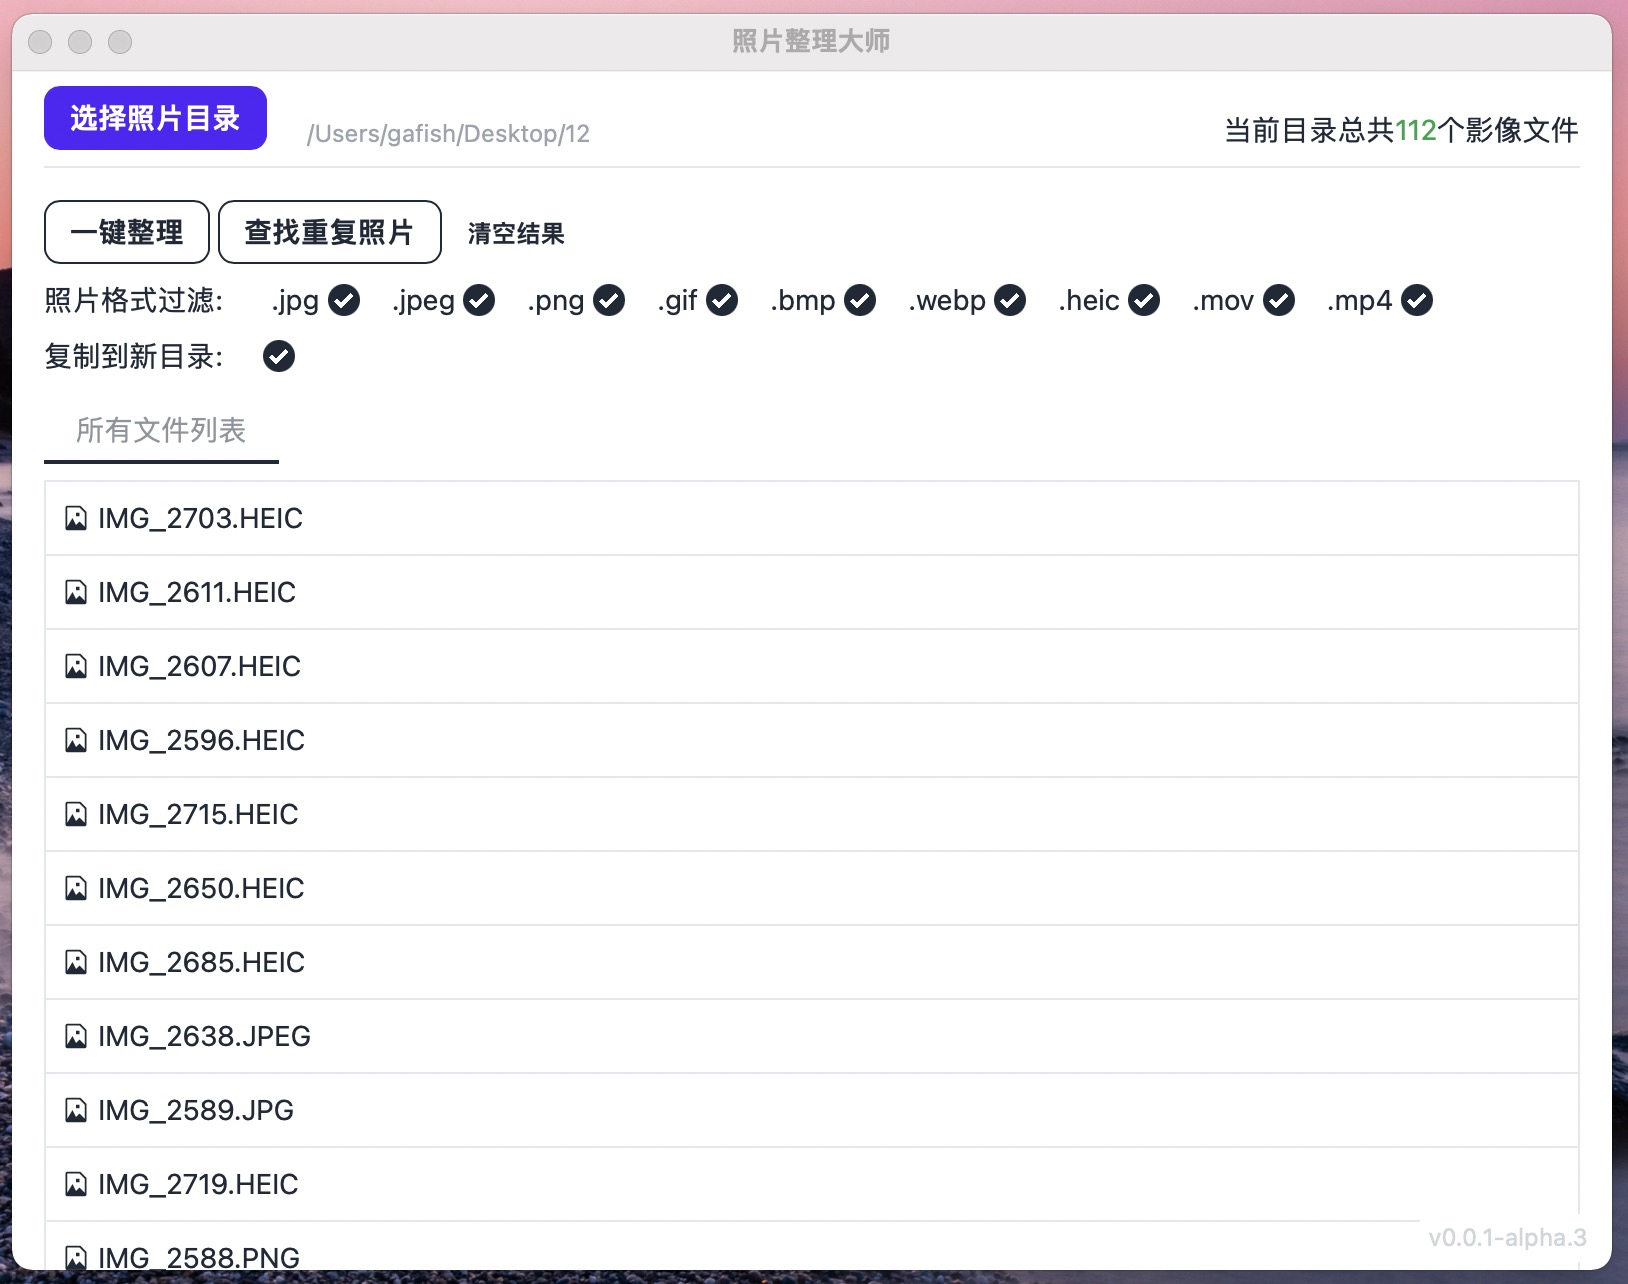
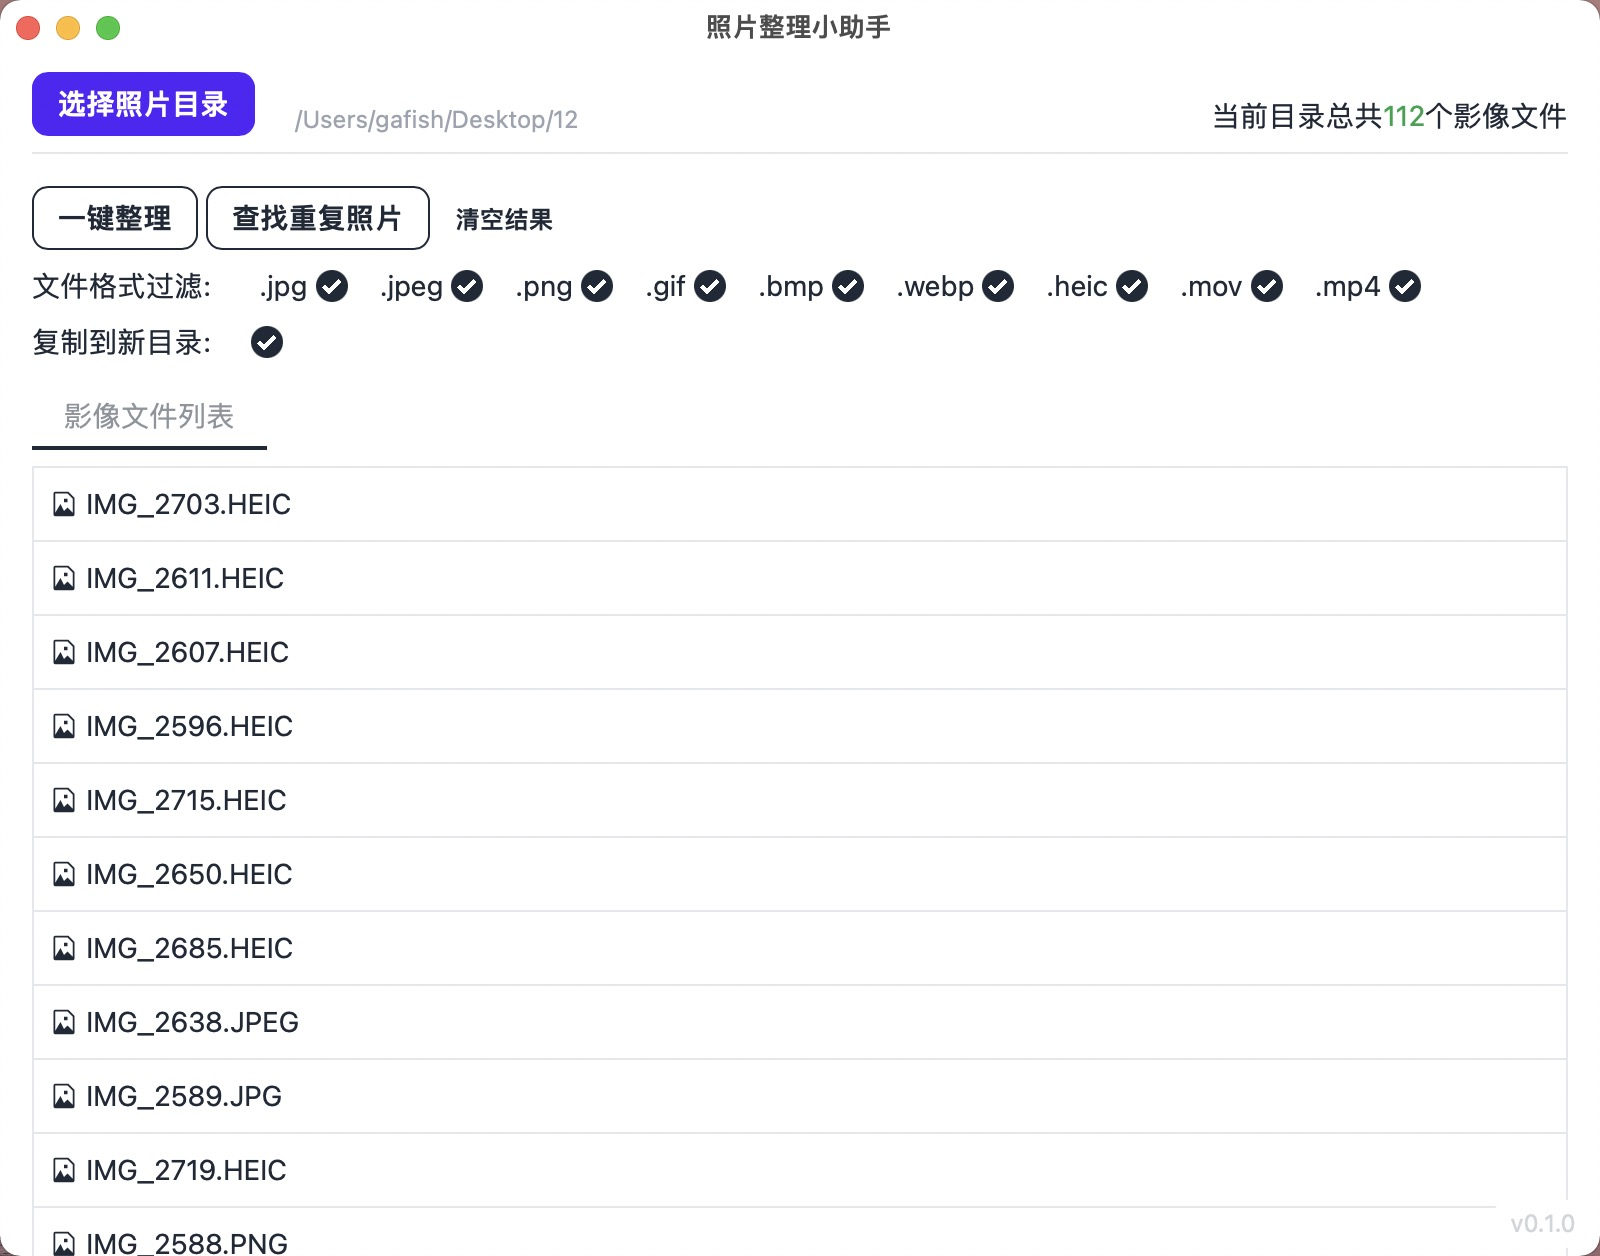
照片整理小助手

Changed region(s): [[0.0, 0.0, 1.0, 1.0]]

diff --git a/src/components/Version/index.tsx b/src/components/Version/index.tsx
@@ -11,7 +11,7 @@ export const Version = () => {
   return (
     <a
       className="fixed right-1 bottom-1 text-gray-300 text-xs bg-white px-2 py-1 rounded-md"
-      href="https://github.com/gafish/photo-cleanup-app/releases"
+      href="https://github.com/gafish/photo-helper/releases"
       target="_blank"
       rel="noreferrer"
     >

diff --git a/public/index.html b/public/index.html
@@ -22,7 +22,7 @@
       work correctly both with client-side routing and a non-root public URL.
       Learn how to configure a non-root public URL by running `npm run build`.
     -->
-  <title>照片整理大师</title>
+  <title>照片整理小助手</title>
 
   <script>
     (function (w, d, s, q, i) {

diff --git a/README.md b/README.md
@@ -1,10 +1,23 @@
-# 照片整理大师
+<img src="./assets/icon.png" width="50">
 
-一个用来批量整理照片的工具，可以按照片拍摄日期将照片分类
+# 照片整理小助手
 
-Icon
-<img src="./assets/icon.png" width="100">
 
-截图
+这是一个用来批量整理照片的小工具，开发这个工具的初衷是为了更好的整理我保存了十几年的海量照片。
+
+## 功能
+
+### v0.1.0
+
+- 按照片拍摄日期将照片一键整理到日期目录
+- 通过Hash检测，查找当前目录中的重复照片
+- 照片格式过滤，支持视频格式
+- 可选是否将整理后的结果保存新建的目录
+
+
+## 截图
+
+<img src="./assets/cover.jpg">
 <img src="./assets/screenshot.jpg">
+<img src="./assets/result.jpg">
 
